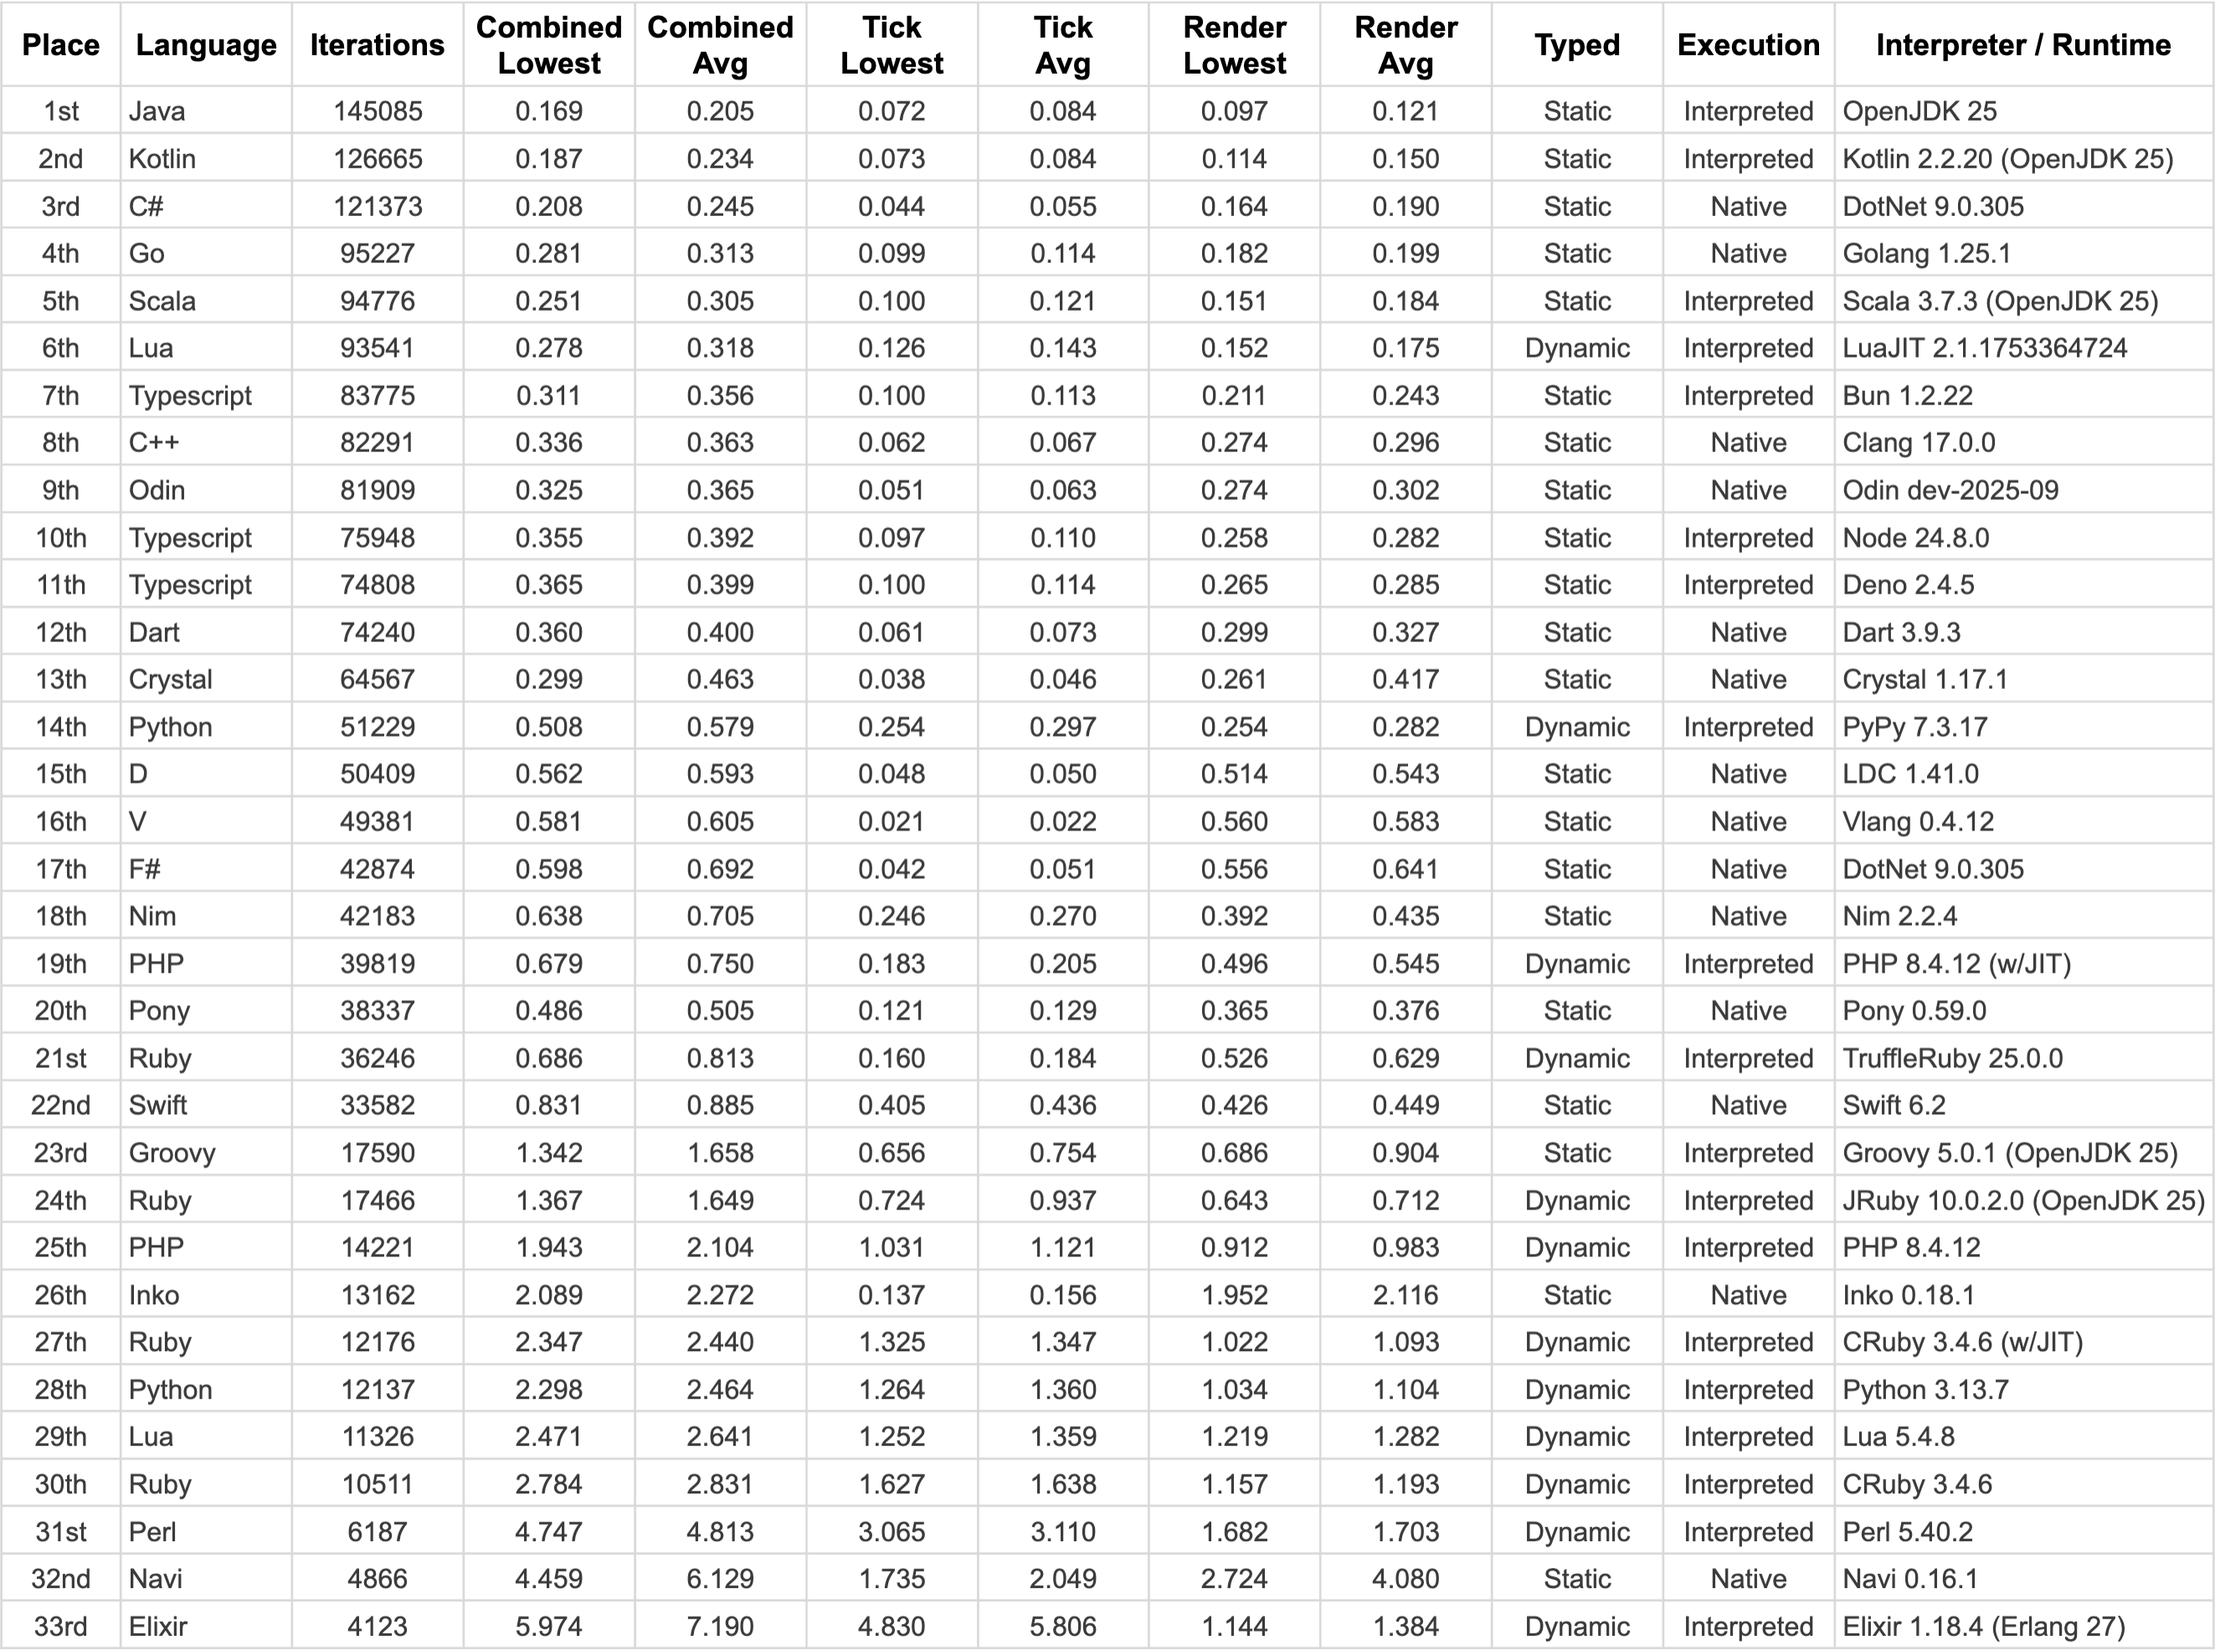
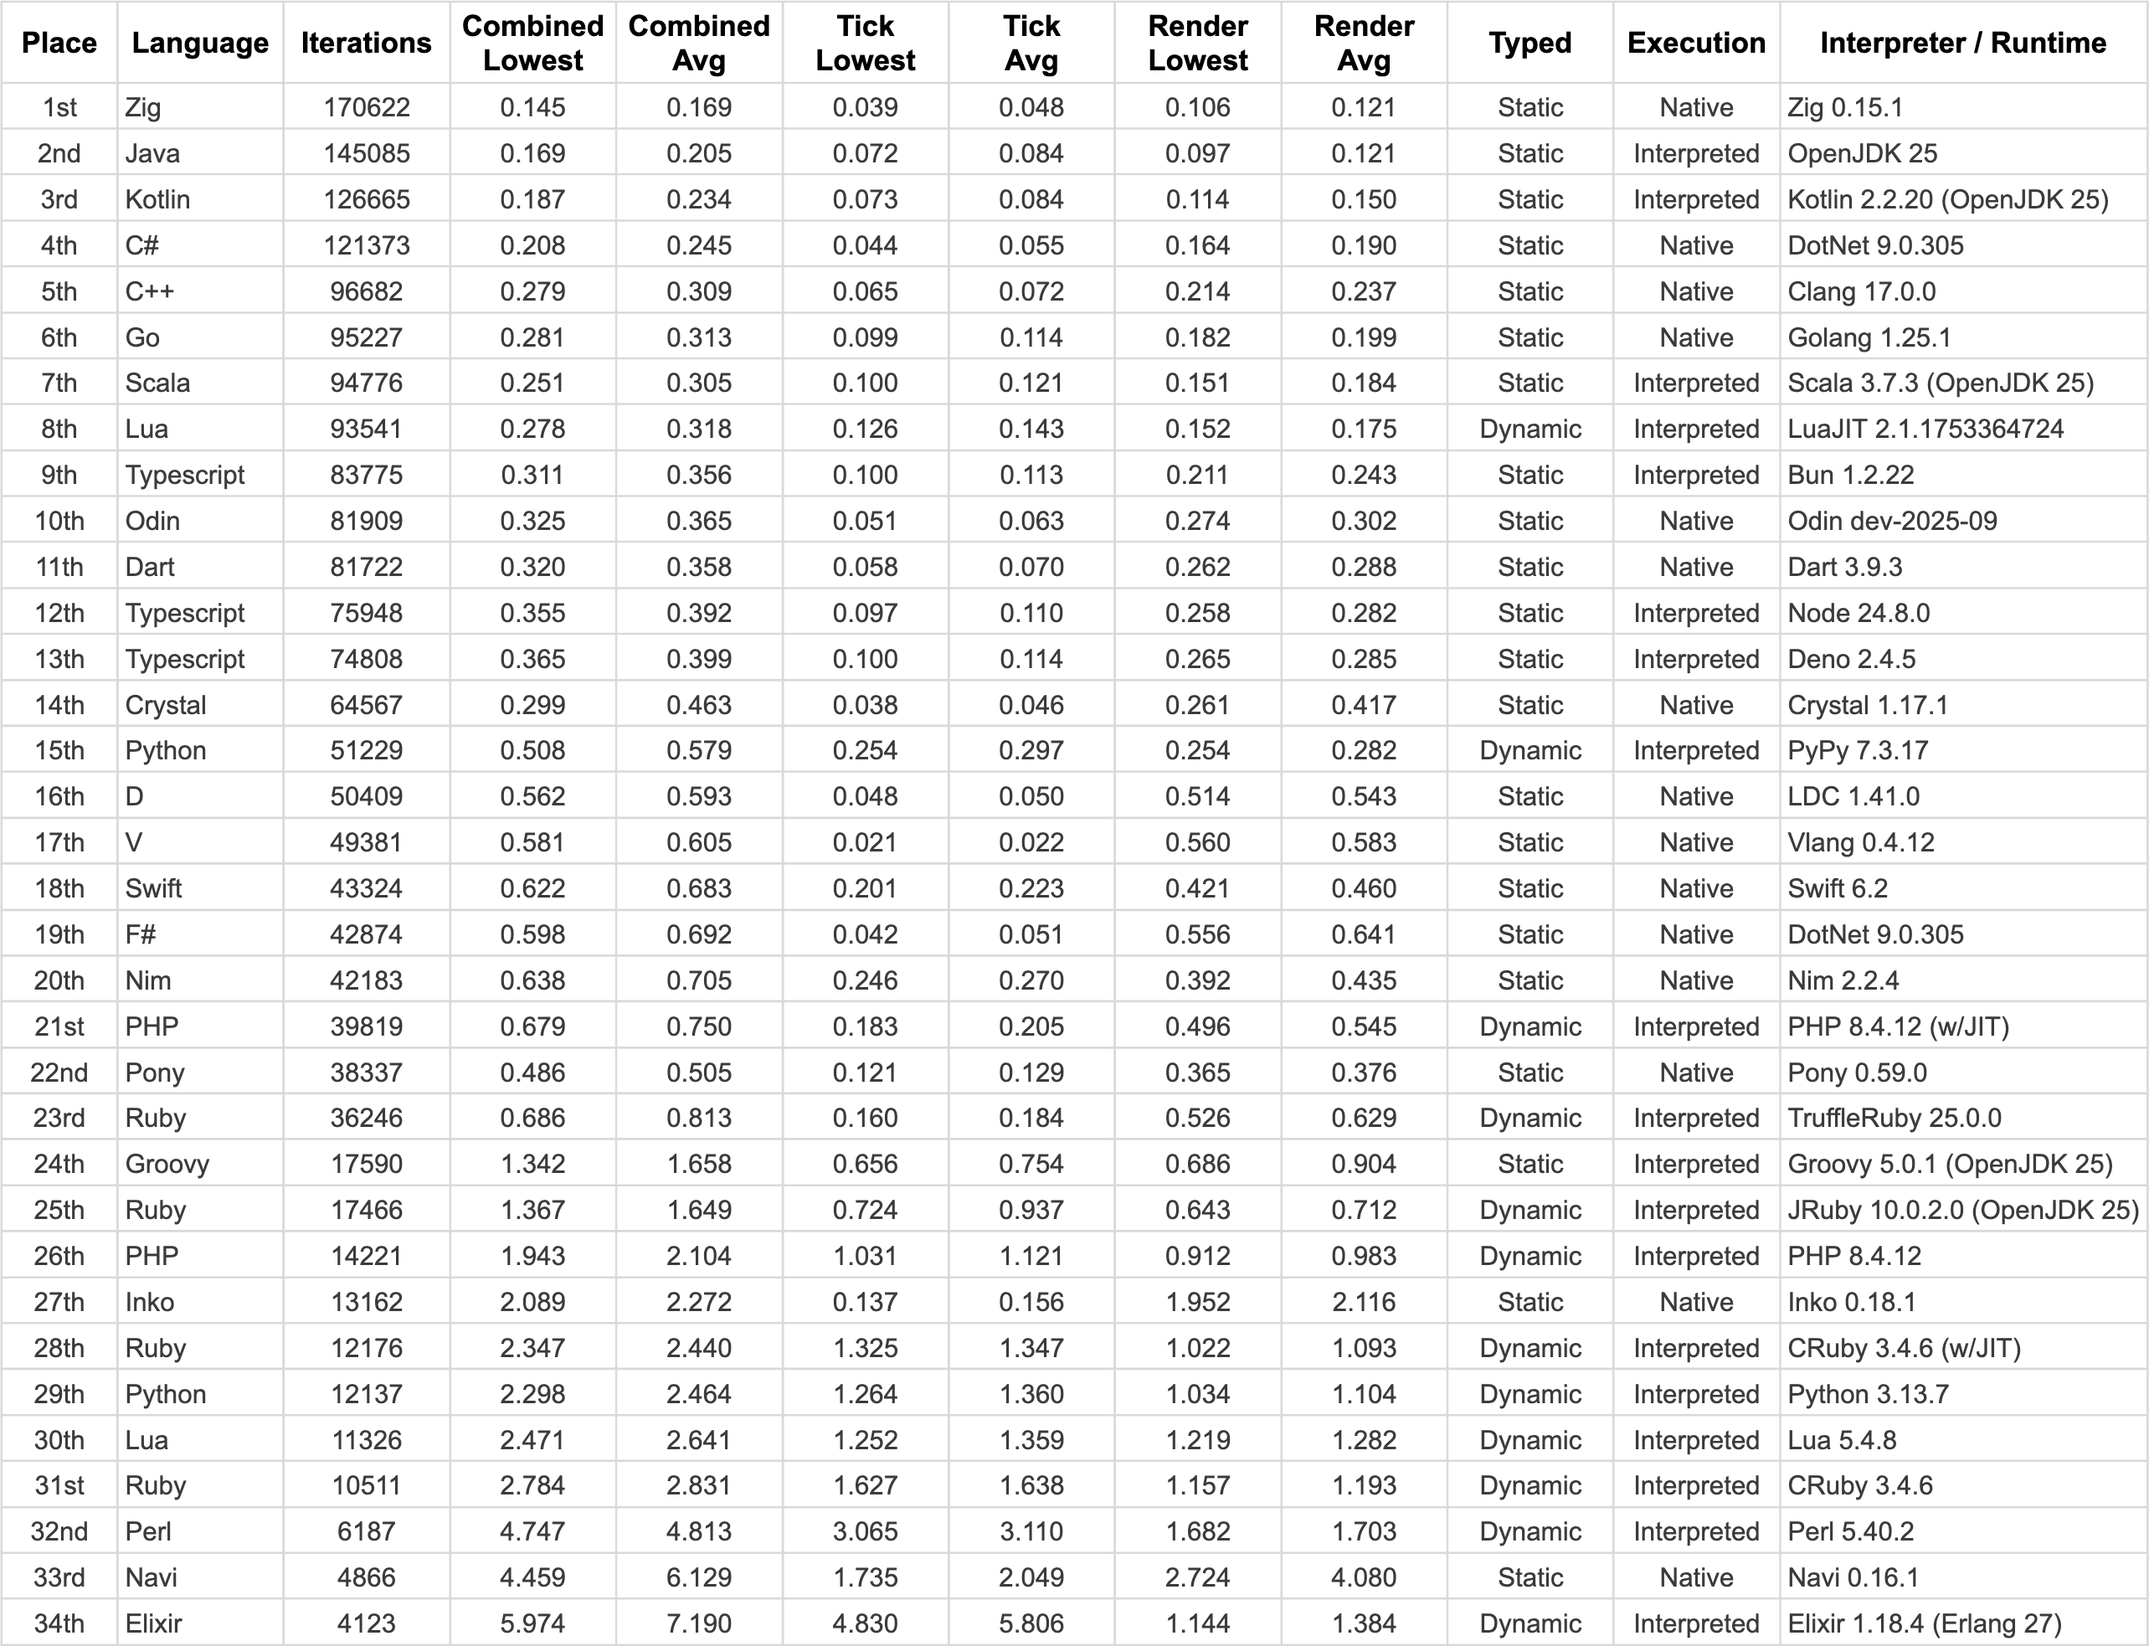
Implementation: Zig

Changed region(s): [[0.0, 0.0, 1.0, 1.0]]

diff --git a/README.md b/README.md
@@ -14,6 +14,6 @@ All implementations are coded as similarly as possible using features available 
 
 **Note:** Because the implementations are as similar as possible, the runtime of some implementations may not run as fast as they could be if native/optimized functions were used. Additionally, there are certainly faster ways in general to write these implementations, e.g. using a 2D array for all cells. However, the primary purpose of these implementations is to demonstrate as wide a range of common syntax as possible between languages. Therefore, I will not be accepting pull requests that rewrite how an implementation works if it removes a key syntax feature demonstration in the process.
 
-**Note:** These speed results are taken on a Macbook Pro 16" (Nov 2023), Apple M3 Pro, with 18 GB of RAM. The times (measured in milliseconds) were calculated by playing each simulation for 30 seconds (using `MINIMAL=1 timeout 30 [command]`), and recording the ending results. The table below is sorted by number of iterations that were completed within the 30 seconds. Iterations takes into account aspects such as garbage collection and other overhead that are not necessarily measured by the tick and render values. This can result in some implementations with faster combined averages being ranked lower because of greater overhead.
+**Note:** These speed results are taken on a Macbook Pro 16" (Nov 2023), Apple M3 Pro, with 18 GB of RAM. The times (measured in milliseconds) were calculated by playing each simulation for 30 seconds (using `benchmark.sh` in each implementation), and recording the ending results. The table below is sorted by number of iterations that were completed within the 30 seconds. Iterations takes into account aspects such as garbage collection and other overhead that are not necessarily measured by the tick and render values. This can result in some implementations with faster combined averages being ranked lower because of greater overhead.
 
 [![Speed Results Spreadsheet](/results.png)](https://docs.google.com/spreadsheets/d/1XF2xgN_T3FIeFjJ4iqM1NvcvMG6Zz3ytyJXbvEDVb-U/edit?usp=sharing#gid=1866601212)

diff --git a/zig/README.md b/zig/README.md
@@ -1,0 +1,10 @@
+# Zig
+
+## Installation
+
+* `brew install zig`
+
+## Usage
+
+* `zig build-exe -O ReleaseFast play.zig`
+* `./play`
